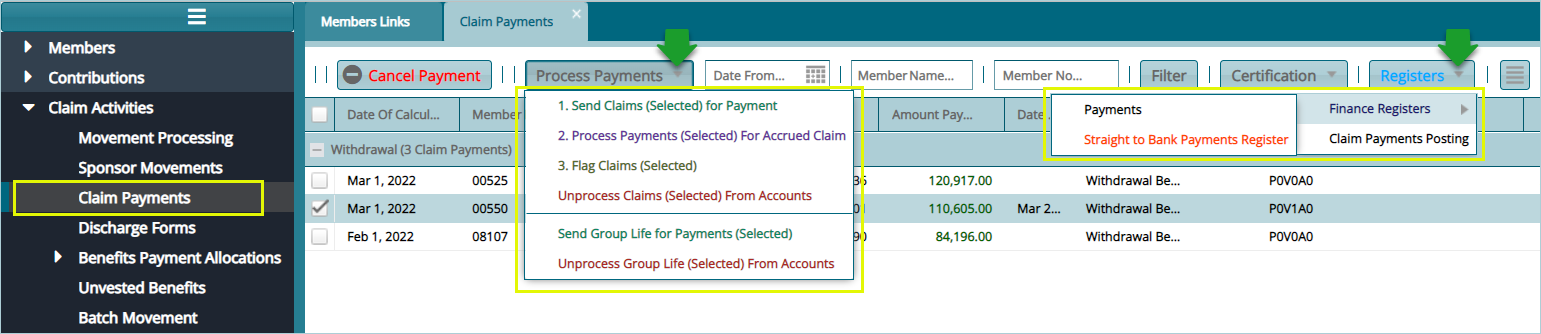
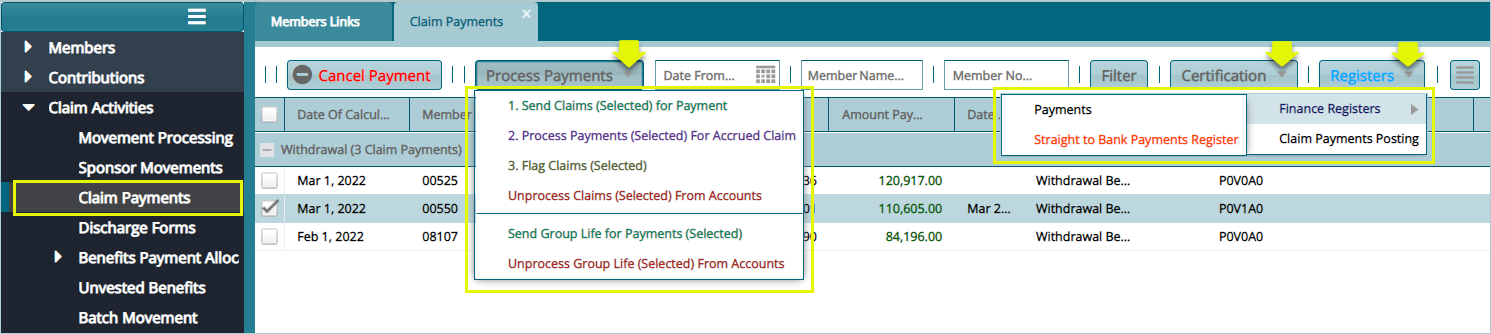
save members module updates

diff --git a/index.html b/index.html
@@ -193,6 +193,12 @@
                         },{
                             title: 'Discharge Forms',
                             link: '/members/dischargeForms'
+                        },{
+                            title: 'Reserve Fund',
+                            link: '/members/reservesFund'
+                        },{
+                            title: 'Fund Accounts',
+                            link: '/members/fundAccounts'
                         },
                 
                 

diff --git a/members/claimActivities.md b/members/claimActivities.md
@@ -1,42 +1,94 @@
 ### Claim Activities
 
-The configurations in this section are related to claim processing. To start an
+The procedures under this menu are related to claim processing. To start an
 activity, click the appropriate link to open its window as shown in the
 screenshot below:
 
 <img  alt="Claim Activities" width="95%" height="auto"  class="center"  src="../media3/contri18.png"> 
 
 
-## Claim Movement
+## Claim Processing
 
-Claim movement commences after running members benefits to confirm correct
-allocation of interests to members accounts followed by a member initiating a
-claim which is then listed on the Movements window.
+The processing of a claim commences after running members balances to confirm correct
+crediting of Members contributions to their accounts. 
 
-To initiate a claim for a member, navigate to the members register and select
-the member record from the list. Click the **Movements** tab to access the
-**Initiate Movement/Claim** tab as shown in the following sample screenshot:
+### Running balances
+
+After configuring parameters and other key setups as demonstrated previously,
+the claim process commences by running members balances to confirm correct
+allocation of interests to members accounts. The system can run balances for a
+few selected members or for a batch.
+
+### Balances for Few Members
+
+To run balances for a few members, navigate to the **Financial Periods
+Register** and select the **Financial Period** to run balances for from the
+list. Locate the **Period End Processes** tab from the menu bar and initiate the
+process of balance running as shown in the following illustration:
+
+<img  alt="Balances for Few Members" width="95%" height="auto"  class="center"  src="../media3/contri28.png"> 
+
+
+Clicking the **Select Members** tab as shown previously, will load a new form
+through which the **Type of Interest Rate** to use in running the balances, and
+the members to run balances for, are selected. See the following illustration:
+
+<img  alt="Type of Interest Rate" width="90%" height="auto"  class="center"  src="../media3/contri29.png"> 
+
+
+### Balances for All Members
+
+To run member balances in batch, follow the same process used previously to
+access the **Period End Processes** but on the drop-down menu, select **Run
+Batch** and on the submenu click **Scheme Level.** See the navigation steps in
+the following illustration:
+
+<img  alt="Balances for All Members" width="80%" height="auto"  class="center"  src="../media3/contri30.png"> 
+
+
+#### Declared Vs Interim Interest Rates
+
+Clicking the **Scheme Level** tab will load a dialogue form where the type of
+Interest Rates, **Declared or Interim**, can be selected to run the balances.
+Select the interest rate type from the drop-down list and confirm the year to
+run balances for. Click the **Run Balance** button as shown in the illustration
+below:
+
+<img  alt="Declared Vs Interim Interest Rates" width="70%" height="auto"  class="center"  src="../media3/contri31.png"> 
+
+To confirm if balances have been successfully distributed to members account,
+navigate to the members register and activate the details tab to display a
+section at the lower part of the window. Click to select individual members from
+the list and click on the **Closing Balances** tab on lower section’s menu bar
+as demonstrated in the following illustration:
+
+<img  alt="Closing Balances" width="95%" height="auto"  class="center"  src="../media3/contri32.png"> 
+
+### Initiating Movement/Claim
+
+After balances are ran, a Member's Claim can be initiated, and the claim record is then listed 
+on the Movements window. To initiate a Claim for a Member, navigate to the Members Register and select 
+the Member's record from the list. Click the **Movements** button to access the 
+**Initiate Movement/Claim** buuton as shown in the following sample screenshot:
+
 
 <img  alt="Claim movement" width="95%" height="auto"  class="center"  src="../media3/contri19.png"> 
 
+ 
+### Processing a Resignation Claim
 
-Clicking **Initiate Movement/Claim** link will load an exit form (see the
-following screenshot) where configurations for processing the claims are set.
-Fill the form with the required details and then click the **Confirm Exit
-Documents Checklist** button (as shown in the next screenshot but one) to
-confirm receipt of relevant documents from the member.
+To initiate a claim whose **Reason for Exit** is **Resignation**, Click **Initiate Movement/Claim** link will load an exit form (see the following screenshot) where configurations for processing the claim are set. Fill the form with the required details and then click the **Confirm Exit Documents Checklist** button (as shown in the next screenshot but one) to confirm receipt of relevant documents from the member.
 
-After confirming that the documents we received by the scheme administrator,
-click the save button to proceed with the claim process.
+After confirming that the documents we received by the scheme administrator, click the save button to proceed with the claim process.
 
-<img  alt="Initiate Movement/Claim" width="80%" height="auto"  class="center"  src="../media3/contri20.png"> 
+<img  alt="Initiate Movement/Claim" width="90%" height="auto"  class="center"  src="../media3/contri20.png"> 
 
 
 Below is the **Exit Documents Checklist** window. Select a document from the
 list and double click each item to confirm receipt of the document, otherwise
 click the **Receive Document** button to upload the document.
 
-<img  alt="Exit Documents Checklist" width="80%" height="auto"  class="center"  src="../media3/contri21.png"> 
+<img  alt="Exit Documents Checklist" width="90%" height="auto"  class="center"  src="../media3/contri21.png"> 
 
 
 A successful configuration of exit form and confirmation of receipt of relevant
@@ -55,15 +107,23 @@ benefits calculation as shown below:
 <img  alt="Movement Processing window" width="95%" height="auto"  class="center"  src="../media3/contri23.png"> 
 
 
-## Benefits Calculation
+### Benefits Calculation
 
-Clicking the **Show Benefits Calculation** link from the Benefits Calculation drop-down menu will load the Withdrawal Benefits Calculation form for a selected member from the list. This will show all the member’s benefits tabulations as shown in a sample screenshot below:
+Clicking the **Show Benefits Calculation** link from the Benefits Calculation 
+drop-down menu will load the Withdrawal Benefits Calculation form for a selected 
+member from the list. This will show all the member’s benefits tabulations as 
+shown in a sample screenshot below:
 
-<img  alt="Show Benefits Calculation" width="70%" height="auto"  class="center"  src="../media3/contri24.png"> 
+<img  alt="Show Benefits Calculation" width="80%" height="auto"  class="center"  src="../media3/contri24.png"> 
 
+
+### Claim Status
 Next, click the **Proceed Now** button on the Withdrawal Benefits Calculation
 form to process the payment and save the records awaiting certification towards
-disbursement of moneys from the scheme accounts. See the illustration below:
+disbursement of moneys from the scheme accounts. See screenshot below:
+
+<img  alt="claim status" width="90%" height="auto"  class="center"  src="../media3/contri33.png"> 
+
 
 ## Claim Payments
 
@@ -76,7 +136,8 @@ the Claims Payment window. Locate the **Process Payments** drop-down menu to
 send the selected claim for payment or unprocess the claim among other options
 in the list.
 
-On the other hand, clicking the **Register** drop-down menu will give you access
+**Certify** and **Authorize** the claim payment records selected via the **Certification** 
+drop-down menu and then click the **Register** drop-down menu will give you access 
 to a window where all effected payments are listed. See the screenshot below:
 
 <img  alt="claim payment" width="95%" height="auto"  class="center"  src="../media3/contri25.png"> 

diff --git a/members/reservesFund.md b/members/reservesFund.md
@@ -1,0 +1,21 @@
+### Reserve Fund
+FundMaster maintains records of balances (overpayments and underpayments) for different contributions transactions. See relevant Reserve Fund links below:
+
+<img  alt="Reserve Fund" width="95%" height="auto"  class="center"  src="../media3/reservefund.png"> 
+
+
+## Transactions Register
+
+Transactions Register keeps records for all Reserve Fund transactions.
+
+Clicking the **Transactions Register** link will open the Transactions Register where different transaction balances are listed. The transactions are normally recorded as **inflows**, which basically denotes overpayments. These inflows can later be used to settle deficits, say later underpayments from the same sponsor account. 
+
+The screenshot below shows a sample of a Reserve Fund Transactions Register in FundMaster: 
+
+<img  alt="Transactions Register" width="95%" height="auto"  class="center"  src="../media3/transreg.png"> 
+
+**Tips**
+
+- Movement of money from the **Fund Accounts** to bridge the deficit is treated as an Outflow. 
+
+

diff --git a/members/fundAccounts.md b/members/fundAccounts.md
@@ -1,0 +1,14 @@
+### Fund Accounts
+
+The fund Accounts manage all the transactions from the Reserve Fund. This tool enables creation of the different financial periods and allows different activities related to the records. Access the link to the Financial Periods Register as shown below:
+ 
+<img  alt="Fund Accounts" width="95%" height="auto"  class="center"  src="../media3/fundaccounts.png"> 
+
+ 
+## Financial Periods Register
+
+Clicking the **Financial Periods Register** link will open the Financial Periods Register window where all fund financial periods in a scheme are listed. You can also create periods by clicking the Create Periods drop-down menu as shown below:
+ 
+
+<img  alt="Financial Periods Register" width="95%" height="auto"  class="center"  src="../media3/finpreg.png"> 
+
